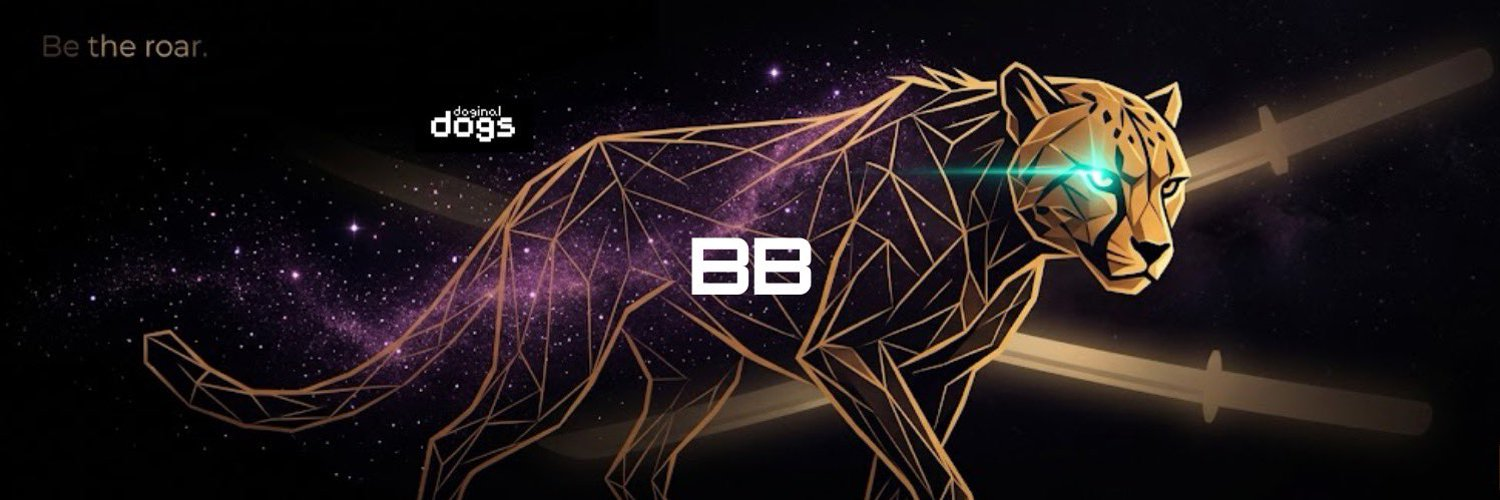
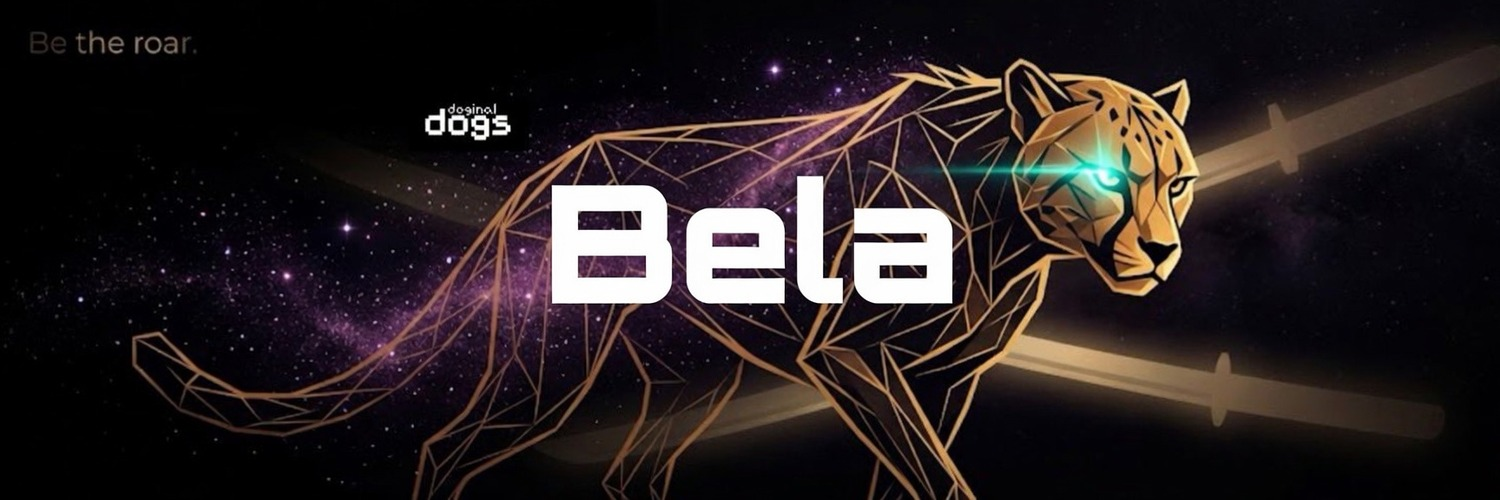
La marca pública pasa de BB a Bela.
Título, héroe, formularios y las letras del banner.
La cuenta de X se queda en @BBvoice777.

diff --git a/index.html b/index.html
@@ -3,8 +3,8 @@
 <head>
     <meta charset="UTF-8">
     <meta name="viewport" content="width=device-width, initial-scale=1.0">
-    <title>BB • Healing Music</title>
-    <meta name="description" content="Organic songs made for you. Your story inside the music. Personalized healing music by BB.">
+    <title>Bela • Healing Music</title>
+    <meta name="description" content="Organic songs made for you. Your story inside the music. Personalized healing music by Bela.">
     <script src="https://cdn.tailwindcss.com"></script>
     <link rel="stylesheet" href="https://cdnjs.cloudflare.com/ajax/libs/font-awesome/6.5.1/css/all.min.css">
     <style>
@@ -61,10 +61,10 @@
     <nav class="fixed top-0 left-0 right-0 z-50 border-b border-white/10 bg-[#020617]/90 backdrop-blur-lg">
         <div class="max-w-6xl mx-auto px-6 flex items-center justify-between h-16">
             <div class="flex items-center gap-3">
-                <div class="w-8 h-8 rounded-full bg-[#9B7EBD] flex items-center justify-center">
-                    <span class="font-bold text-[#020617] text-sm">BB</span>
+                <div class="h-8 px-2.5 rounded-full bg-[#9B7EBD] flex items-center justify-center">
+                    <span class="font-bold text-[#020617] text-xs tracking-tight">Bela</span>
                 </div>
-                <span class="font-semibold tracking-wider">BB • Healing Music</span>
+                <span class="font-semibold tracking-wider">Bela • Healing Music</span>
             </div>
             <div class="hidden md:flex items-center gap-8 text-sm">
                 <a href="#healing-music" class="nav-link text-gray-300">Healing Music</a>
@@ -111,7 +111,7 @@
                 </div>
             </div>
 
-            <h1 class="text-7xl md:text-[92px] font-bold tracking-tighter title-font mb-1 text-white">BB</h1>
+            <h1 class="text-7xl md:text-[92px] font-bold tracking-tighter title-font mb-1 text-white">Bela</h1>
             <p class="text-4xl md:text-[42px] text-[#9B7EBD] font-light tracking-tight mb-8">Healing Music</p>
             
             <p class="max-w-xl mx-auto text-xl md:text-2xl text-gray-300 mb-10 leading-tight">
@@ -132,7 +132,7 @@
         <div class="absolute bottom-8 left-1/2 -translate-x-1/2 md:left-12 md:translate-x-0 z-20">
             <div class="w-28 h-28 md:w-40 md:h-40 rounded-3xl overflow-hidden border-2 border-white/20 shadow-2xl">
                 <img src="dog-beret.png" 
-                     alt="Golden retriever wearing elegant lilac beret - BB's mascot" 
+                     alt="Golden retriever wearing elegant lilac beret - Bela's mascot" 
                      class="w-full h-full object-cover"
                      style="filter: contrast(1.05) saturate(0.95);"
                      onerror="this.src='https://picsum.photos/id/1005/400/400'; this.style.filter='';">
@@ -145,7 +145,7 @@
     <section id="featured-video" class="max-w-5xl mx-auto px-6 pt-20">
         <div class="text-center mb-8">
             <h2 class="text-4xl font-semibold mb-3">Feel the vibration</h2>
-            <p class="text-[#9B7EBD]">A custom video by BB Healing Music</p>
+            <p class="text-[#9B7EBD]">A custom video by Bela Healing Music</p>
         </div>
         <div class="relative rounded-3xl overflow-hidden border elegant-border bg-white/5">
             <video id="featuredVideo" class="w-full h-auto block" src="video/bb-healing-custom-video.mp4" poster="video/bb-healing-custom-video-poster.jpg" autoplay muted loop playsinline preload="metadata"></video>
@@ -228,7 +228,7 @@
     <section id="doginal" class="max-w-6xl mx-auto px-6 py-16 border-t border-white/10">
         <div class="text-center mb-10">
             <h2 class="text-4xl md:text-5xl title-font mb-3">Part of the Doginal Dogs Pack</h2>
-            <p class="text-gray-400">Starter Dog • BB</p>
+            <p class="text-gray-400">Starter Dog • Bela</p>
         </div>
         
         <div class="max-w-3xl mx-auto">
@@ -267,7 +267,7 @@
                 </button>
             </div>
             <a href="#featured-video" class="group relative block bg-white/5 border elegant-border rounded-3xl overflow-hidden min-h-[220px]">
-                <img src="video/bb-healing-custom-video-poster.jpg" alt="BB Healing Music custom video" class="w-full h-full object-cover group-hover:scale-105 transition-transform duration-500" loading="lazy">
+                <img src="video/bb-healing-custom-video-poster.jpg" alt="Bela Healing Music custom video" class="w-full h-full object-cover group-hover:scale-105 transition-transform duration-500" loading="lazy">
                 <span class="absolute inset-0 flex items-center justify-center">
                     <span class="w-16 h-16 rounded-full bg-[#9B7EBD]/90 text-white flex items-center justify-center"><i class="fas fa-play ml-1"></i></span>
                 </span>
@@ -301,7 +301,7 @@
     <footer class="border-t border-white/10 py-10">
         <div class="max-w-6xl mx-auto px-6 flex flex-col md:flex-row justify-between items-center gap-y-4 text-sm">
             <div>
-                <span class="font-semibold">BB</span> • Healing Music
+                <span class="font-semibold">Bela</span> • Healing Music
             </div>
             
             <div class="flex gap-6">
@@ -380,7 +380,7 @@
                     <button type="submit" id="videoSubmit"
                             class="flex-1 bg-[#9B7EBD] hover:bg-[#8B6DB0] py-3 rounded-2xl font-semibold transition-all disabled:opacity-60 disabled:cursor-not-allowed">Send my request</button>
                 </div>
-                <p class="text-[10px] text-center text-gray-500 mt-3">BB will reply to you personally by email.</p>
+                <p class="text-[10px] text-center text-gray-500 mt-3">Bela will reply to you personally by email.</p>
             </form>
         </div>
     </div>
@@ -416,7 +416,7 @@
                 <input id="careTx" name="transaction" type="text" autocomplete="off"
                        class="w-full bg-white/5 border border-white/20 rounded-2xl p-4 mb-1 focus:outline-none focus:border-[#9B7EBD]"
                        placeholder="Solana transaction signature or your sender wallet">
-                <p class="text-[10px] text-gray-500 mb-3 pl-1">Optional, but it helps BB confirm your payment faster.</p>
+                <p class="text-[10px] text-gray-500 mb-3 pl-1">Optional, but it helps Bela confirm your payment faster.</p>
                 <textarea id="careText" name="assessment" required class="w-full bg-white/5 border border-white/20 rounded-2xl p-4 mb-4 focus:outline-none focus:border-[#9B7EBD]" rows="4"
                           placeholder="What areas of your life feel most in need of care right now?"></textarea>
 
@@ -545,8 +545,8 @@
                 setStatus(status, 'success', opts.successText);
                 button.textContent = 'Sent';
             } catch (err) {
-                console.error('[BB Healing Music] Form error:', err);
-                setStatus(status, 'error', 'Sorry, something went wrong and your request could not be sent. Please try again, or email BB directly at ' + FALLBACK_EMAIL + '.');
+                console.error('[Bela Healing Music] Form error:', err);
+                setStatus(status, 'error', 'Sorry, something went wrong and your request could not be sent. Please try again, or email Bela directly at ' + FALLBACK_EMAIL + '.');
                 button.disabled = false;
                 button.textContent = originalLabel;
             }
@@ -583,14 +583,14 @@
                 formId: 'sampleForm',
                 buttonId: 'sampleSubmit',
                 statusId: 'sampleStatus',
-                subject: 'New free sample request - BB Healing Music',
+                subject: 'New free sample request - Bela Healing Music',
                 validate: () => requireNameEmail('sampleName', 'sampleEmail'),
                 data: {
                     name: document.getElementById('sampleName').value.trim(),
                     email: document.getElementById('sampleEmail').value.trim(),
                     message: document.getElementById('sampleText').value.trim()
                 },
-                successText: 'Thank you! Your request was sent. BB will create your sample and email you personally.'
+                successText: 'Thank you! Your request was sent. Bela will create your sample and email you personally.'
             });
         }
 
@@ -610,7 +610,7 @@
                 formId: 'videoForm',
                 buttonId: 'videoSubmit',
                 statusId: 'videoStatus',
-                subject: 'New custom video request - BB Healing Music',
+                subject: 'New custom video request - Bela Healing Music',
                 validate: () => requireNameEmail('videoName', 'videoEmail')
                     || (document.getElementById('videoText').value.trim() ? null : 'Please describe the video you would like.'),
                 data: {
@@ -619,7 +619,7 @@
                     company: document.getElementById('videoCompany').value.trim(),
                     message: document.getElementById('videoText').value.trim()
                 },
-                successText: 'Thank you! Your video request was sent. BB will reply to you personally by email.'
+                successText: 'Thank you! Your video request was sent. Bela will reply to you personally by email.'
             });
         }
 
@@ -639,7 +639,7 @@
                 formId: 'careForm',
                 buttonId: 'careSubmit',
                 statusId: 'careStatus',
-                subject: 'New Care Plan request ($11 SOL) - BB Healing Music',
+                subject: 'New Care Plan request ($11 SOL) - Bela Healing Music',
                 validate: () => requireNameEmail('careName', 'careEmail')
                     || (document.getElementById('careText').value.trim() ? null : 'Please answer the short assessment question.'),
                 data: {
@@ -648,7 +648,7 @@
                     transaction_or_wallet: document.getElementById('careTx').value.trim() || '(not provided)',
                     assessment: document.getElementById('careText').value.trim()
                 },
-                successText: 'Thank you! Your details were sent. Once BB confirms your $11 SOL payment, your personalized care plan will arrive by email within 48 hours.'
+                successText: 'Thank you! Your details were sent. Once Bela confirms your $11 SOL payment, your personalized care plan will arrive by email within 48 hours.'
             });
         }
 
@@ -673,7 +673,7 @@
         });
 
         window.onload = function() {
-            console.log('%c[BB Healing Music] Site ready', 'color:#9B7EBD');
+            console.log('%c[Bela Healing Music] Site ready', 'color:#9B7EBD');
         }
 
         const featuredVideo = document.getElementById('featuredVideo');
